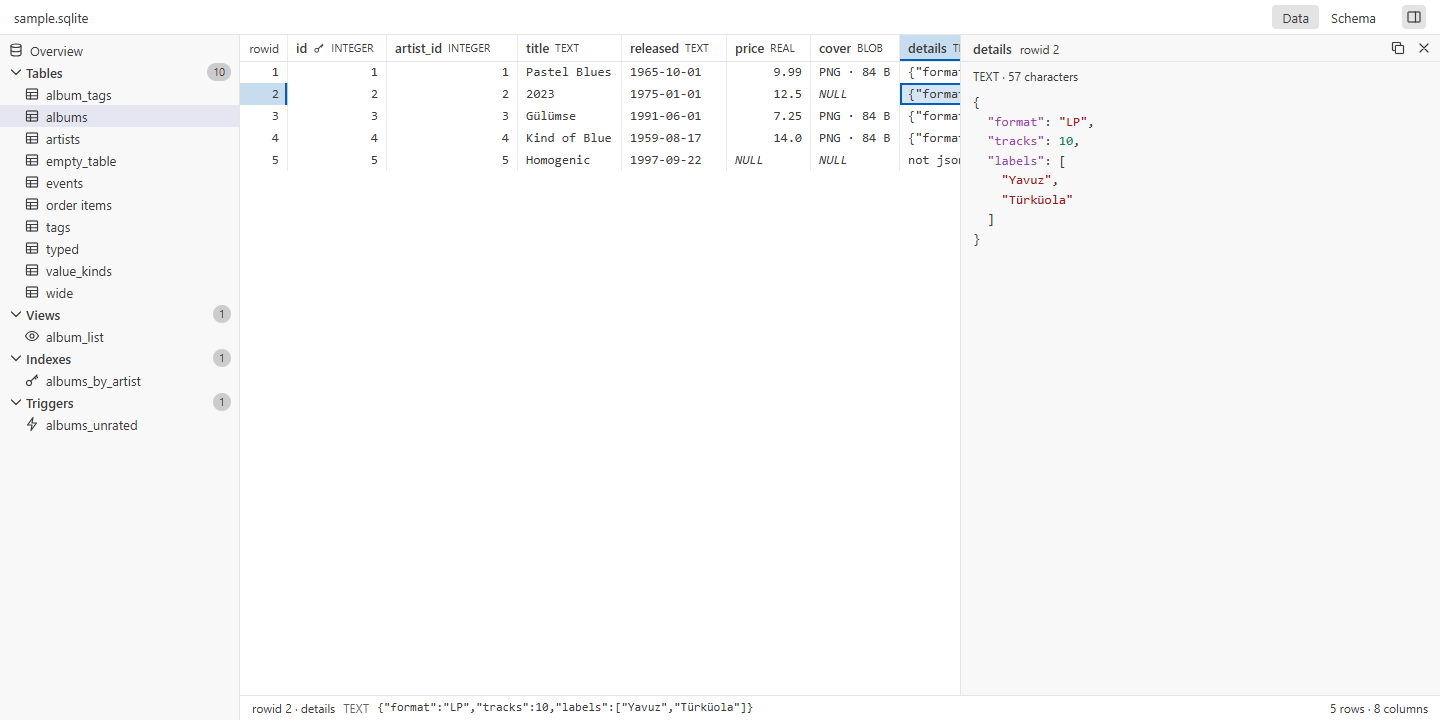
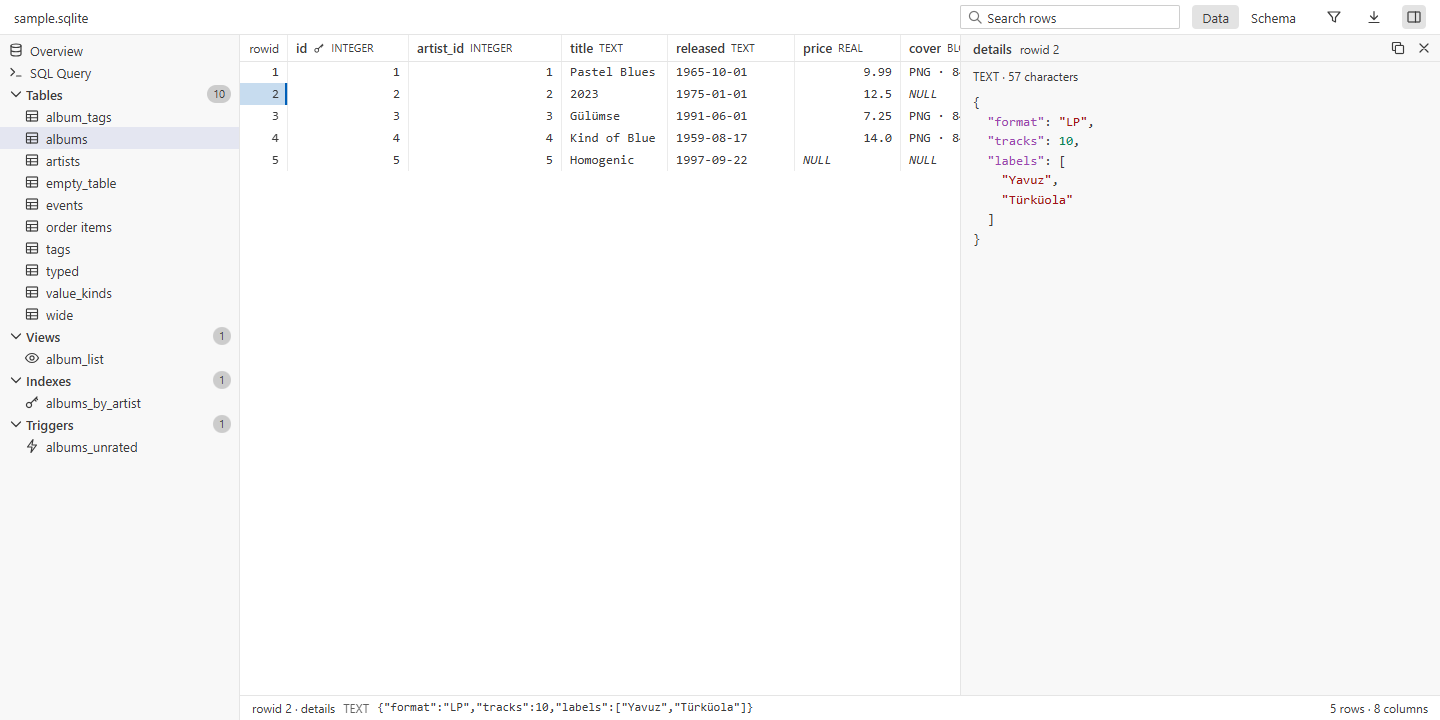
chore: prepare the 1.0.0 release (#27)
* chore: prepare the 1.0.0 release

Version 1.0.0, out of preview. The changelog's 1.0.0 section leads
with the query page, sorting, filtering and export, then the MBTiles
and GeoPackage views. The Marketplace description now says what can be
done with rows and that Nightlite is read-only by default, and the
keywords add query, csv and export. The README screenshots are taken
again, with the new sidebar entries and toolbar.

* docs: show an animated demo and install counts in the README

A short recording leads the README: the last of ten million rows a key
away, a table sorted and searched, a query, a building's attributes in
a vector tile and a GeoPackage polygon drawn. npm run demo records it
again (Playwright video, then ffmpeg).

The Marketplace badge moves from shields.io, which retired its
Visual Studio Marketplace badges, to vsmarketplacebadges.dev, and the
badges now show Marketplace installs and Open VSX downloads too.

diff --git a/test/visual/demo.spec.ts b/test/visual/demo.spec.ts
@@ -1,0 +1,105 @@
+import { existsSync } from 'node:fs';
+import { expect, test, type Page } from '@playwright/test';
+import { openViewer } from './harness';
+
+// Records the short demo shown at the top of the README. Not part of the test run:
+// `npm run demo` records it and turns it into docs/images/demo.gif (after
+// `npm run fixtures:large`).
+test.skip(!process.env.DEMO_VIDEO, 'run with npm run demo');
+test.use({
+  // Wide enough for the tile browser's layers beside the tile.
+  viewport: { width: 1100, height: 640 },
+  deviceScaleFactor: 1,
+  video: { mode: 'on', size: { width: 1100, height: 640 } },
+});
+
+/** Moves the mouse to an element and clicks it, slowly enough to follow. */
+async function clickSlowly(page: Page, selector: string, double = false) {
+  const box = (await page.locator(selector).first().boundingBox())!;
+  await page.mouse.move(box.x + box.width / 2, box.y + box.height / 2, { steps: 12 });
+  await page.waitForTimeout(250);
+  await page.mouse.click(box.x + box.width / 2, box.y + box.height / 2, {
+    clickCount: double ? 2 : 1,
+  });
+}
+
+const item = (key: string) => `.nl-tree-item[data-key="${key}"]`;
+
+test('demo', async ({ page }) => {
+  test.skip(!existsSync('test/fixtures/generated/large.sqlite'), 'run npm run fixtures:large');
+  test.setTimeout(120_000);
+  const viewer = await openViewer(page, 'dark');
+
+  // Ten million rows: down a few pages, then to the very last row at once.
+  await viewer.load('generated/large.sqlite');
+  await clickSlowly(page, item('table:measurements'));
+  await expect(page.locator('.nl-status-counts')).toHaveText('10,000,000 rows · 4 columns');
+  await page.locator('.nl-grid-row:not(.nl-grid-loading) .nl-grid-cell >> nth=4').click();
+  for (let i = 0; i < 3; i++) {
+    await page.keyboard.press('PageDown');
+    await page.waitForTimeout(300);
+  }
+  await page.keyboard.press('Control+End');
+  await page.waitForTimeout(1400);
+
+  // A table sorted by a column, then searched.
+  await viewer.load('sample.sqlite');
+  await clickSlowly(page, item('table:albums'));
+  await page.waitForTimeout(500);
+  await page.locator('.nl-grid-head', { hasText: 'price' }).hover();
+  await page.waitForTimeout(300);
+  await clickSlowly(page, '.nl-grid-sort[aria-label="Sort by price"]');
+  await page.waitForTimeout(900);
+  await clickSlowly(page, '.nl-search-input');
+  await page.keyboard.type('blue', { delay: 120 });
+  await expect(page.locator('.nl-status-counts')).toHaveText('2 matching rows · 8 columns');
+  await page.waitForTimeout(1200);
+
+  // A query.
+  await clickSlowly(page, item('query'));
+  const editor = page.locator('.nl-query-editor');
+  await editor.click();
+  await page.keyboard.press('Control+a');
+  await page.keyboard.type(
+    'SELECT artists.name, count(*) AS albums, sum(price) AS total\nFROM albums JOIN artists ON artists.id = albums.artist_id\nGROUP BY artists.name ORDER BY total DESC',
+    { delay: 18 },
+  );
+  await page.keyboard.press('Control+Enter');
+  await expect(page.locator('.nl-query-status')).toHaveText(/^5 rows/);
+  await page.waitForTimeout(1500);
+
+  // A vector tile, and a building's attributes under the pointer.
+  await viewer.load('showcase.mbtiles');
+  await clickSlowly(page, item('tiles'));
+  await expect(page.locator('.nl-tile-layer-name')).toHaveCount(5);
+  await page.waitForTimeout(600);
+  const box = (await page.locator('.nl-tile-overlay').boundingBox())!;
+  // Find a building near the middle, as the README screenshot does, then point at it slowly.
+  const cards = page.locator('.nl-tile-feature .nl-tile-layer-name');
+  let building: { x: number; y: number } | undefined;
+  search: for (let dy = 0.4; dy < 0.7; dy += 0.02) {
+    for (let dx = 0.4; dx < 0.7; dx += 0.02) {
+      await page.mouse.move(box.x + dx * box.width, box.y + dy * box.height);
+      await page.evaluate(() => new Promise((done) => requestAnimationFrame(done)));
+      if ((await cards.allTextContents()).join() === 'buildings') {
+        building = { x: box.x + dx * box.width, y: box.y + dy * box.height };
+        break search;
+      }
+    }
+  }
+  await page.mouse.move(box.x + box.width * 0.2, box.y + box.height * 0.25);
+  await page.waitForTimeout(500);
+  await page.mouse.move(building!.x, building!.y, { steps: 25 });
+  await page.mouse.down();
+  await page.mouse.up();
+  await page.waitForTimeout(1500);
+
+  // A GeoPackage's geometry, drawn.
+  await viewer.load('sample.gpkg');
+  await page.waitForTimeout(1200);
+  await clickSlowly(page, item('table:regions'));
+  await page.waitForTimeout(400);
+  await clickSlowly(page, '.nl-grid-row:not(.nl-grid-loading) .nl-grid-cell >> nth=2', true);
+  await expect(page.locator('.nl-detail-geometry canvas')).toBeVisible();
+  await page.waitForTimeout(1800);
+});

diff --git a/CHANGELOG.md b/CHANGELOG.md
@@ -6,16 +6,40 @@ and this project adheres to [Semantic Versioning](https://semver.org/spec/v2.0.0
 
 ## [Unreleased]
 
+## [1.0.0] - 2026-10-14
+
+Query, sort, filter and export rows; browse and inspect MBTiles tiles and edit their metadata;
+see a GeoPackage's contents and geometries. Out of preview, with an animated demo and install
+counts at the top of the README.
+
 ### Added
 
-- **Metadata** for MBTiles, in the sidebar under the tile browser: the tileset's metadata as a
-  form. Change, add or remove keys; values are checked against the MBTiles 1.3 spec as you type,
-  and minzoom and maxzoom against the tiles, without stopping a save. Changes are marked and the
-  editor tab shows them unsaved; **Save** (<kbd>Ctrl</kbd>+<kbd>S</kbd>) writes them into the
-  file in one transaction, **Undo** takes back a field's typing at once, **Revert** drops them,
-  and VS Code keeps them if it closes before you save. If another program changed the file
-  since, Nightlite asks first; if the file is locked or read-only, it says so and keeps your
-  changes. This is the only time Nightlite writes to a file.
+- **SQL Query**, in the sidebar and as **Open SQL Query** in the Command Palette: run a statement
+  that reads (`SELECT`, `WITH … SELECT`, `VALUES`, `EXPLAIN`, or a `PRAGMA` that reports, like
+  `table_info`) with <kbd>Ctrl</kbd>+<kbd>Enter</kbd>, and its rows show in the same grid tables
+  do, with copying and cell details. Statements that would write are turned down before they
+  run, and queries run on a read-only connection of their own, so the file is never changed.
+  **Stop** (<kbd>Escape</kbd>) keeps the rows read so far; results hold up to 100,000 rows.
+- Sort a table or view by a column, ascending or descending, from the column's header or the
+  grid's context menu (**Sort Ascending**, **Sort Descending**, **Clear Sort**).
+- **Search rows** above the grid (<kbd>Ctrl</kbd>+<kbd>F</kbd>) shows the rows with some text in
+  any column, and **Filter by Column** adds a filter under each column's name: text to find, or
+  `=`, `<>`, `<`, `<=`, `>`, `>=` and a value, or `=NULL` and `<>NULL`. Sorting and filtering
+  run in the background with their progress shown, and **Stop** (<kbd>Escape</kbd>) keeps the
+  rows found so far; the sorted or filtered rows then scroll, copy and jump like the table's
+  own. Each table keeps its sort, search and filters.
+- **Export Rows…**, in the toolbar, the grid's context menu and the Command Palette, writes the
+  rows on screen to a CSV or JSON file you pick: a table's rows as shown, sorted and filtered,
+  or every row a query returns, not only those the grid holds. Values are whole, integers to the
+  last digit and BLOBs as hex; the file is written as the rows are read, with progress and
+  **Cancel**, so memory stays flat even for millions of rows.
+- **Copy as Markdown Table**, in the grid's context menu and the Command Palette: the selected
+  cells as a Markdown table headed by their column names, columns lined up and numbers aligned
+  to the right, ready to paste into a README, an issue or a chat. A right click selects the cell
+  it's on, unless it's on the selection.
+- Cell details show a BLOB that holds an image (PNG, JPEG, WebP, GIF) as the picture, with its
+  size in pixels, and one that holds text as the text, JSON indented and colored. **Hex** shows
+  the bytes instead, and stays picked for the next BLOBs until you switch back.
 - A tile browser for MBTiles, in the sidebar under the overview. Pick a zoom level, type a
   tile's z/x/y, paste a tile URL, or pick a tile from the zoom level's list, which scrolls
   through millions of tiles. The arrow keys move to the neighboring tiles and <kbd>+</kbd> and
@@ -31,9 +55,14 @@ and this project adheres to [Semantic Versioning](https://semver.org/spec/v2.0.0
 - **Save Tile…** writes the tile shown to a file you pick, named by its address, like
   `14-8723-5412.pbf`: images as they are, vector tiles uncompressed, or gzip-compressed when the
   name ends in `.gz`. Nothing is written to the tileset.
-- Cell details show a BLOB that holds an image (PNG, JPEG, WebP, GIF) as the picture, with its
-  size in pixels, and one that holds text as the text, JSON indented and colored. **Hex** shows
-  the bytes instead, and stays picked for the next BLOBs until you switch back.
+- **Metadata** for MBTiles, in the sidebar under the tile browser: the tileset's metadata as a
+  form. Change, add or remove keys; values are checked against the MBTiles 1.3 spec as you type,
+  and minzoom and maxzoom against the tiles, without stopping a save. Changes are marked and the
+  editor tab shows them unsaved; **Save** (<kbd>Ctrl</kbd>+<kbd>S</kbd>) writes them into the
+  file in one transaction, **Undo** takes back a field's typing at once, **Revert** drops them,
+  and VS Code keeps them if it closes before you save. If another program changed the file
+  since, Nightlite asks first; if the file is locked or read-only, it says so and keeps your
+  changes. This is the only time Nightlite writes to a file.
 - A GeoPackage's overview lists its contents: each feature, tile and attribute table with its
   geometry type and column or zoom levels, its spatial reference system (like `EPSG:4326`),
   rows and bounds, then the extensions it uses, and its GeoPackage version.
@@ -41,29 +70,6 @@ and this project adheres to [Semantic Versioning](https://semver.org/spec/v2.0.0
   details draw them, with their SRS and number of points, or show them as WKT. Points, lines,
   polygons with their holes, multi-geometries, collections and curves are read, in either byte
   order, from GeoPackage's binary format.
-- **Export Rows…**, in the toolbar, the grid's context menu and the Command Palette, writes the
-  rows on screen to a CSV or JSON file you pick: a table's rows as shown, sorted and filtered,
-  or every row a query returns, not only those the grid holds. Values are whole, integers to the
-  last digit and BLOBs as hex; the file is written as the rows are read, with progress and
-  **Cancel**, so memory stays flat even for millions of rows.
-- Sort a table or view by a column, ascending or descending, from the column's header or the
-  grid's context menu (**Sort Ascending**, **Sort Descending**, **Clear Sort**).
-- **Search rows** above the grid (<kbd>Ctrl</kbd>+<kbd>F</kbd>) shows the rows with some text in
-  any column, and **Filter by Column** adds a filter under each column's name: text to find, or
-  `=`, `<>`, `<`, `<=`, `>`, `>=` and a value, or `=NULL` and `<>NULL`. Sorting and filtering
-  run in the background with their progress shown, and **Stop** (<kbd>Escape</kbd>) keeps the
-  rows found so far; the sorted or filtered rows then scroll, copy and jump like the table's
-  own. Each table keeps its sort, search and filters.
-- **SQL Query**, in the sidebar and as **Open SQL Query** in the Command Palette: run a statement
-  that reads (`SELECT`, `WITH … SELECT`, `VALUES`, `EXPLAIN`, or a `PRAGMA` that reports, like
-  `table_info`) with <kbd>Ctrl</kbd>+<kbd>Enter</kbd>, and its rows show in the same grid tables
-  do, with copying and cell details. Statements that would write are turned down before they
-  run, and queries run on a read-only connection of their own, so the file is never changed.
-  **Stop** (<kbd>Escape</kbd>) keeps the rows read so far; results hold up to 100,000 rows.
-- **Copy as Markdown Table**, in the grid's context menu and the Command Palette: the selected
-  cells as a Markdown table headed by their column names, columns lined up and numbers aligned
-  to the right, ready to paste into a README, an issue or a chat. A right click selects the cell
-  it's on, unless it's on the selection.
 
 ## [0.1.0] - 2026-10-14
 
@@ -128,5 +134,6 @@ First preview release: SQLite databases, MBTiles and GeoPackages, read-only, at 
 - Dark, light and high contrast themes, keyboard and screen reader support, and English and
   Turkish.
 
-[Unreleased]: https://github.com/mbKalkan/nightlite/compare/v0.1.0...HEAD
+[Unreleased]: https://github.com/mbKalkan/nightlite/compare/v1.0.0...HEAD
+[1.0.0]: https://github.com/mbKalkan/nightlite/compare/v0.1.0...v1.0.0
 [0.1.0]: https://github.com/mbKalkan/nightlite/releases/tag/v0.1.0

diff --git a/README.md b/README.md
@@ -2,8 +2,10 @@
 
 # Nightlite
 
-[![Visual Studio Marketplace](https://img.shields.io/visual-studio-marketplace/v/MBKDevStudio.nightlite?label=Marketplace)](https://marketplace.visualstudio.com/items?itemName=MBKDevStudio.nightlite)
+[![Visual Studio Marketplace](https://vsmarketplacebadges.dev/version-short/MBKDevStudio.nightlite.svg?label=Marketplace&color=007ec6)](https://marketplace.visualstudio.com/items?itemName=MBKDevStudio.nightlite)
+[![Visual Studio Marketplace installs](https://vsmarketplacebadges.dev/installs-short/MBKDevStudio.nightlite.svg?label=Marketplace%20installs&color=4c1)](https://marketplace.visualstudio.com/items?itemName=MBKDevStudio.nightlite)
 [![Open VSX](https://img.shields.io/open-vsx/v/MBKDevStudio/nightlite?label=Open%20VSX)](https://open-vsx.org/extension/MBKDevStudio/nightlite)
+[![Open VSX downloads](https://img.shields.io/open-vsx/dt/MBKDevStudio/nightlite?label=Open%20VSX%20downloads&color=4c1)](https://open-vsx.org/extension/MBKDevStudio/nightlite)
 [![CI](https://github.com/mbKalkan/nightlite/actions/workflows/ci.yml/badge.svg)](https://github.com/mbKalkan/nightlite/actions/workflows/ci.yml)
 [![License: MIT](https://img.shields.io/badge/license-MIT-blue.svg)](LICENSE)
 
@@ -15,7 +17,7 @@ Nightlite is a fast, dark-first viewer for SQLite files: app databases (`.sqlite
 the rows on screen, so a table of ten million rows scrolls as smoothly as one of ten, and a 24 GB
 tileset opens at once.
 
-![A table of ten million rows in Nightlite, scrolled halfway down, with a cell selected and its value in the status bar](docs/images/rows-dark.png)
+![Nightlite jumping to the last of ten million rows, sorting and searching a table, running a query, pointing at a building in a vector tile, and drawing a GeoPackage polygon](docs/images/demo.gif)
 
 ## Why Nightlite
 
@@ -34,6 +36,8 @@ tileset opens at once.
 ## Features
 
 ### Databases
+
+![A table of ten million rows in Nightlite, scrolled halfway down, with a cell selected and its value in the status bar](docs/images/rows-dark.png)
 
 ![A JSON value from a table shown indented and colored in Nightlite's cell details panel](docs/images/cell-details-dark.png)
 

diff --git a/CONTRIBUTING.md b/CONTRIBUTING.md
@@ -66,6 +66,8 @@ Other useful scripts:
   projects into `test/corpus`; `npm test` then reads all of them too. Keep such files out of the
   repository.
 - `npm run screenshots` regenerates the images in `docs/images`.
+- `npm run demo` records the README's animated demo, `docs/images/demo.gif` (needs
+  [ffmpeg](https://ffmpeg.org/), `npx playwright install ffmpeg` and `npm run fixtures:large`).
 - `npm run icon` renders `assets/icon.png` from `assets/icon.svg`.
 
 If you change the UI, look at the screenshots the browser tests save in `test-results/screens`,
